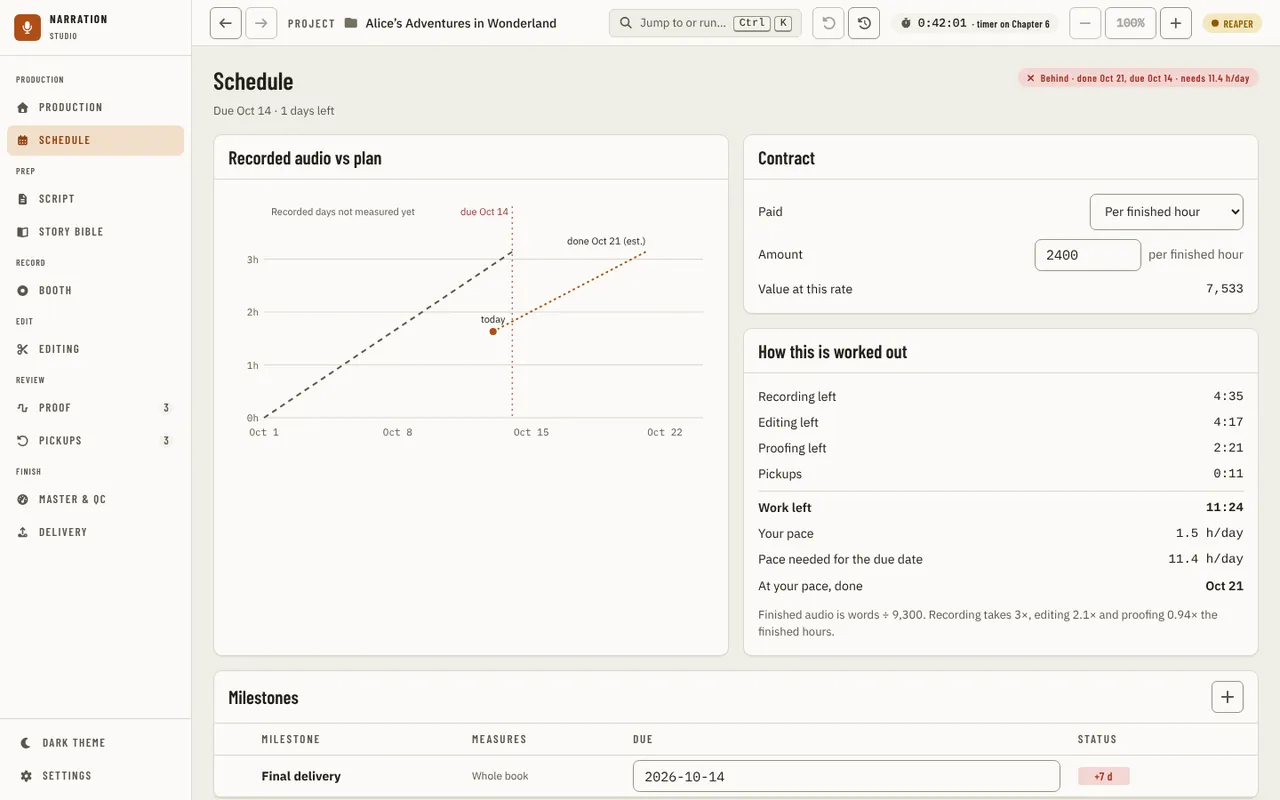
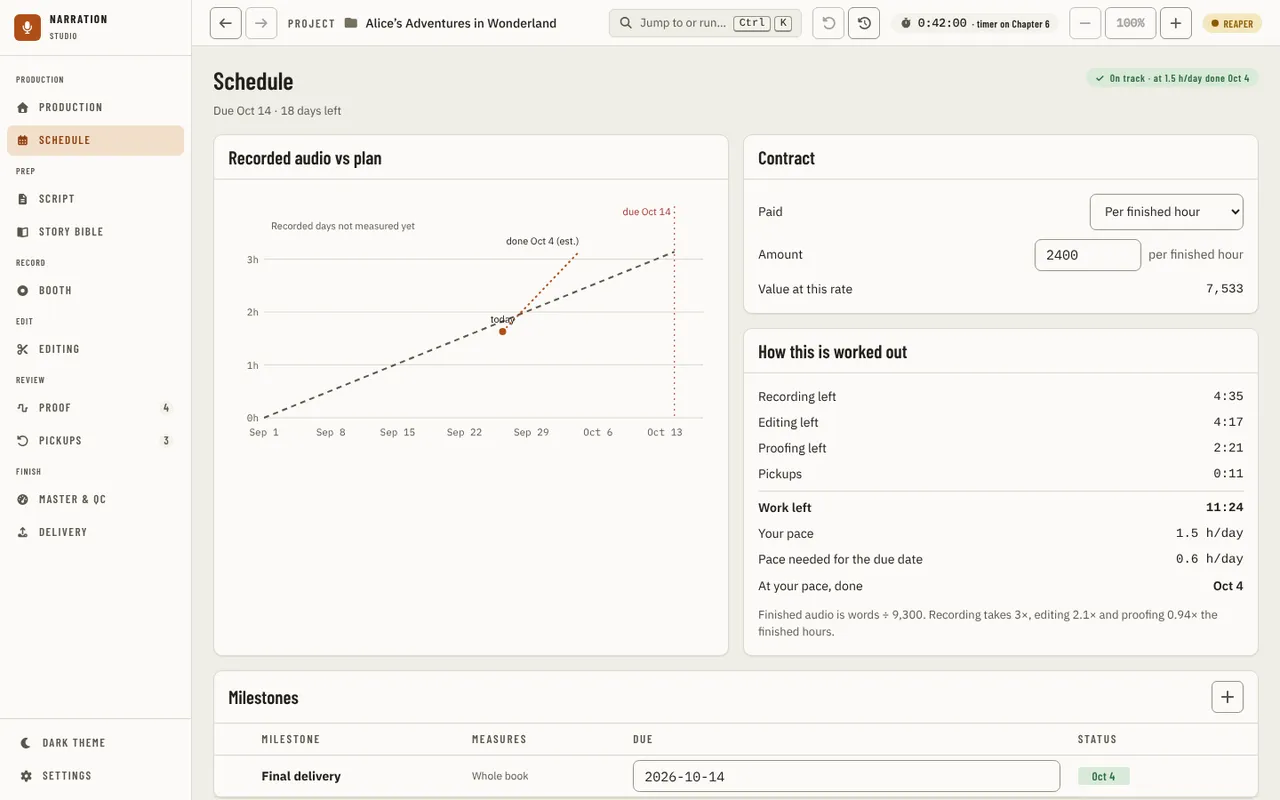
docs(schedule): add the Schedule guide, panel fill and the chart fill
Claude-Session: https://claude.ai/code/session_013jXFHzvEngQnznUKbBTgSS

diff --git a/apps/ui/src/components/production/overview/ProgressChart.tsx b/apps/ui/src/components/production/overview/ProgressChart.tsx
@@ -26,19 +26,26 @@ type Props = {
   series: Measured<Array<[number, number]>>;
   /** The fixed height in px; the chart draws to the width it is given. */
   height?: number;
+  /** Fill the card's height (the Schedule's chart stretches beside the Contract and the work left); `height` is then the least it takes. */
+  fill?: boolean;
   /** The panel's title: Production says "Recorded vs plan", the Schedule page "Recorded audio vs plan" (the mock). */
   title?: string;
 };
 
 /** "Recorded vs plan": the plan dashed, the recorded days solid, the projection dotted, with the due line, today and the estimated finish. */
-export function ProgressChart({ k, wph, start, today, due, recordedHours, series, height = 200, title = 'Recorded vs plan' }: Props) {
+export function ProgressChart({ k, wph, start, today, due, recordedHours, series, height: minHeight = 200, fill = false, title = 'Recorded vs plan' }: Props) {
   const box = useRef<HTMLDivElement>(null);
   const [width, setWidth] = useState(520);
+  const [boxHeight, setBoxHeight] = useState(minHeight);
+  const height = fill ? Math.max(minHeight, boxHeight) : minHeight;
   const describedBy = useId();
   useEffect(() => {
     const el = box.current;
     if (!el) return;
-    const measure = (): void => setWidth(Math.max(MIN_WIDTH, Math.round(el.clientWidth)));
+    const measure = (): void => {
+      setWidth(Math.max(MIN_WIDTH, Math.round(el.clientWidth)));
+      setBoxHeight(Math.round(el.clientHeight));
+    };
     measure();
     if (typeof ResizeObserver === 'undefined') return;
     const observer = new ResizeObserver(measure);
@@ -63,13 +70,14 @@ export function ProgressChart({ k, wph, start, today, due, recordedHours, series
   const summary = `Plan starts ${fmtD(start)}${due ? `, due ${fmtD(due)}` : ', no due date'}. Today is ${fmtD(today)}, ${recordedHours.toFixed(1)} of ${finishedHours.toFixed(1)} finished hours recorded. Estimated finish ${fmtD(k.finish)}.`;
 
   return (
-    <Panel title={title} className="min-w-0">
-      <div ref={box} className="w-full overflow-hidden" style={{ height }}>
+    <Panel title={title} className="min-w-0" fill={fill}>
+      {/* Filling, the svg is laid over the box so what it draws never sets the card's height: the cell does. */}
+      <div ref={box} className={fill ? 'relative size-full overflow-hidden' : 'w-full overflow-hidden'} style={fill ? { minHeight } : { height }}>
         <svg
           viewBox={`0 0 ${width} ${height}`}
           width={width}
           height={height}
-          className="block"
+          className={fill ? 'absolute inset-0 block' : 'block'}
           role="img"
           aria-label="Recorded audio versus plan"
           aria-describedby={describedBy}

diff --git a/apps/ui/src/components/primitives/Panel.tsx b/apps/ui/src/components/primitives/Panel.tsx
@@ -11,6 +11,8 @@ type PanelLook = {
   scroll?: boolean;
   // A panel asking for the narrator's attention: its frame takes the review colour.
   tone?: 'review';
+  // The card takes the height its cell gives it (a grid row stretched to a taller neighbour) and the body takes what the header leaves, so a chart can fill it.
+  fill?: boolean;
   // Layout only (width, flex, margin): the look is the panel's own.
   className?: string;
 };
@@ -27,9 +29,22 @@ type PanelProps = PanelLook &
 // A card around a group of content (ADR 0058, the look ADR 0640). With a `title` it is a named region: the title is a
 // level-2 heading (a panel sits beneath the page's level-1 heading) in a header row with a divider under it, and the
 // section is labelled by it, so a screen reader can list and jump to it. Without one it is the bare card.
-export function Panel({ title, titleStyle, subtitle, leading, actions, label, flush = false, scroll = false, tone, className = '', children }: PanelProps) {
+export function Panel({
+  title,
+  titleStyle,
+  subtitle,
+  leading,
+  actions,
+  label,
+  flush = false,
+  scroll = false,
+  fill = false,
+  tone,
+  className = '',
+  children,
+}: PanelProps) {
   const titleId = useId();
-  const layout = scroll ? 'flex flex-col overflow-hidden' : '';
+  const layout = scroll ? 'flex flex-col overflow-hidden' : fill ? 'flex flex-col' : '';
   return (
     <section
       aria-labelledby={title ? titleId : undefined}
@@ -39,7 +54,7 @@ export function Panel({ title, titleStyle, subtitle, leading, actions, label, fl
     >
       {title && <PanelHeader title={title} titleId={titleId} titleStyle={titleStyle} subtitle={subtitle} leading={leading} actions={actions} />}
       <div
-        className={`${flush ? '[--panel-pad:0px]' : PANEL_BODY_CLASS} ${scroll ? 'min-h-0 flex-1 overflow-y-auto' : ''}`}
+        className={`${flush ? '[--panel-pad:0px]' : PANEL_BODY_CLASS} ${scroll ? 'min-h-0 flex-1 overflow-y-auto' : fill ? 'min-h-0 flex-1' : ''}`}
         // A scrolling body is a tab stop, so the keyboard can scroll it when nothing inside it takes focus.
         {...(scroll ? { tabIndex: 0, role: 'group', 'aria-labelledby': title ? titleId : undefined, 'aria-label': title ? undefined : label } : {})}
       >

diff --git a/apps/ui/src/components/primitives/Panel.stories.tsx b/apps/ui/src/components/primitives/Panel.stories.tsx
@@ -366,6 +366,30 @@ export const ScrollingBody: Story = {
   },
 };
 
+// A card beside a taller one takes the row's height, and its body takes what the header leaves (the Schedule's chart beside the Contract).
+export const FillsItsCell: Story = {
+  render: () => (
+    <div className="grid items-stretch gap-4 md:grid-cols-2">
+      <Panel title="Recorded audio" fill>
+        <div className="h-full min-h-20 rounded border border-dashed border-[var(--border)]" data-testid="fill-body">
+          Fills the card
+        </div>
+      </Panel>
+      <Panel title="Contract">
+        <p className="h-48 text-sm">A taller neighbour sets the row.</p>
+      </Panel>
+    </div>
+  ),
+  play: async ({ canvasElement }) => {
+    const canvas = within(canvasElement);
+    if (!(await laidOut(canvasElement))) return;
+    const body = canvas.getByTestId('fill-body');
+    const [mine, theirs] = canvas.getAllByRole('region').map((el) => el.getBoundingClientRect());
+    // Stacked (narrow), nothing stretches the card; side by side, the body grows to the taller neighbour.
+    if (Math.abs(mine.top - theirs.top) < 1) await expect(body.getBoundingClientRect().height).toBeGreaterThan(150);
+  },
+};
+
 // A card that is not a section of its own (a TabPanel drawn as a card) takes the header row on its own, with the eyebrow
 // label and an inset card inside the body.
 export const HeaderOnItsOwn: Story = {

diff --git a/apps/ui/src/components/schedule/SchedulePage.tsx b/apps/ui/src/components/schedule/SchedulePage.tsx
@@ -209,6 +209,7 @@ export function SchedulePage({ journal, today, hasManuscript = true, onImport }:
         <ProgressChart
           title="Recorded audio vs plan"
           height={280}
+          fill
           k={k}
           wph={WPH}
           start={planStart(day)}

diff --git a/docs/research/schedule-page-state-matrix.md b/docs/research/schedule-page-state-matrix.md
@@ -2,7 +2,7 @@
 
 Written before the code, per [the definition of done](../../.claude/rules/definition-of-done.md) rule 3, for the Schedule page wired to the host through the `production`, `deliveryProfiles` and `measurements` ports (D67, mock-first). The mock's Schedule (`docs/research/mockups/studio-next/src/pages/Schedule.tsx`) is the spec for what the page shows; this file says what each control does in the states the mock never draws.
 
-A cell is `T:<test>` (a test drives it), `V:<reason>` (a reader can see why no test is needed), or `NT:<reason>` (not tested, with the reason). The "Status" column is filled in as the tests land; a cell still `plan` is unverified.
+A cell is `T:<test>` (a test drives it), `V:<reason>` (a reader can see why no test is needed), or `NT:<reason>` (not tested, with the reason). Test files are `apps/ui/src/components/schedule/SchedulePage.<name>.test.tsx` (`dates`, `contract`, `reread`, `races`, `text`, `scale`) and `apps/ui/tests/aria/schedule-overlays.spec.ts`.
 
 ## What the page reads and writes
 
@@ -22,10 +22,10 @@ The host never pushes an event for these; the page re-reads on its own (focus, t
 
 | State | Expected | Status |
 | --- | --- | --- |
-| loading | "Loading the schedule…" status | T:SchedulePage.test.tsx existing |
-| empty (no chapters / no manuscript) | the manuscript prompt, no table, no estimates | T:existing "asks for a manuscript first" |
+| loading | "Loading the schedule…" status | T:SchedulePage.test.tsx (existing) |
+| empty (no chapters / no manuscript) | the manuscript prompt, no table, no estimates | T:SchedulePage.test.tsx (existing) "asks for a manuscript first" |
 | one chapter / many / huge (5,000 chapters) | the estimates add up; the page renders without a freeze | T:SchedulePage.scale.test.tsx |
-| refused / failed first read | alert with the reason and Try again | T:existing |
+| refused / failed first read | alert with the reason and Try again | T:SchedulePage.test.tsx (existing) |
 | failed re-read after a good read | the last reading stays, a notice says it could not refresh, why, and how long ago it was read; Check again | T:SchedulePage.reread.test.tsx |
 | stale (nothing re-read for a long time) | same notice reads "last read N min ago" | T:reread |
 | re-read succeeds after a failure | the notice goes away | T:reread |
@@ -42,9 +42,9 @@ The host never pushes an event for these; the page re-reads on its own (focus, t
 
 | State | Expected | Status |
 | --- | --- | --- |
-| none set | "No due date set"; pill "No due date set"; field empty | T:existing |
+| none set | "No due date set"; pill "No due date set"; field empty | T:SchedulePage.test.tsx (existing) |
 | clear it (empty field, Enter) | the host clears it; header and pill read "No due date set"; Undo restores | T:dates |
-| in the future | "Due Oct 24 · 8 days left" | T:existing |
+| in the future | "Due Oct 24 · 8 days left" | T:SchedulePage.test.tsx (existing) |
 | one day left | "1 day left", not "1 days left" | T:dates |
 | due today | "Due today", the pill never says "needs Infinity" | T:dates |
 | in the past (1 day, many days) | "2 days overdue"; the pill says Behind with how late and when it would finish, never "needs Infinity h/day" | T:dates |
@@ -52,7 +52,7 @@ The host never pushes an event for these; the page re-reads on its own (focus, t
 | impossible date (`2026-02-30`) | refused with "not a real date", nothing sent to the host | T:dates |
 | wrong shape (`10/14/2026`, `tomorrow`, emoji, RTL text) | refused with "write it YYYY-MM-DD", nothing sent | T:dates |
 | negative / zero year (`-001-01-01`, `0000-01-01`) | refused, nothing sent | T:dates |
-| leap day (`2028-02-29`) and a day over a DST change | counts whole calendar days (22/23/25-hour days do not shift it) | T:dates, T:existing progress |
+| leap day (`2028-02-29`) and a day over a DST change | counts whole calendar days (22/23/25-hour days do not shift it) | T:dates, T:SchedulePage.test.tsx (existing) progress |
 | host refuses | the host's sentence in a toast; the field goes back to the stored date | T:dates |
 | rapid double-fire (Enter then blur) | one host write | T:dates |
 | a re-read changes the date while the field is being edited | the typed text is kept until commit | T:reread |
@@ -61,8 +61,8 @@ The host never pushes an event for these; the page re-reads on its own (focus, t
 
 | State | Expected | Status |
 | --- | --- | --- |
-| each payment type | amount field only under per finished hour; value only with a rate | T:existing |
-| empty amount | clears it | T:existing |
+| each payment type | amount field only under per finished hour; value only with a rate | T:SchedulePage.test.tsx (existing) |
+| empty amount | clears it | T:SchedulePage.test.tsx (existing) |
 | 0 / one / huge (`1e21`, `99999999999`) | stored as typed; the value reads with separators; no "Infinity" or exponent text | T:SchedulePage.contract.test.tsx |
 | negative, NaN, text, `Infinity`, `0x10`, `1,5` | refused with a sentence (not silently ignored); field goes back to the stored amount; nothing sent | T:contract |
 | RTL digits (`٢٤٠٠`) / emoji | refused with the same sentence | T:contract |
@@ -74,32 +74,32 @@ The host never pushes an event for these; the page re-reads on its own (focus, t
 
 | State | Expected | Status |
 | --- | --- | --- |
-| none | only the Final delivery row | T:existing |
-| one / many | sorted by date, ties by stored order | T:existing |
+| none | only the Final delivery row | T:SchedulePage.test.tsx (existing) |
+| one / many | sorted by date, ties by stored order | T:SchedulePage.test.tsx (existing) |
 | 100 (the host's limit) then Add | the host's refusal ("at most 100 milestones") shown in the dialog; list unchanged | T:SchedulePage.scale.test.tsx |
-| 2,000 read from a hand-edited manifest | the table renders in time and stays usable | T:scale |
+| 500 read from a hand-edited manifest (the host saves at most 100) | the table renders in time and stays usable | T:scale. Thousands: NT:jsdom takes about 10 s for 2,000 rows and the host cannot save that many; a browser run of it is unverified |
 | long name (200 chars, no spaces) | wraps or clips inside its cell; the table does not scroll sideways | T:SchedulePage.text.test.tsx, visual row `long-text` |
 | RTL and emoji name / note | shown as written, `dir="auto"` so an RTL name reads right to left | T:text |
-| name with only spaces | refused in the dialog | T:existing |
+| name with only spaces | refused in the dialog | T:SchedulePage.test.tsx (existing) |
 | done toggle double-fire | two writes in order, final state is the second | T:SchedulePage.races.test.tsx |
-| remove then Undo | the entry is back in place | T:existing |
+| remove then Undo | the entry is back in place | T:SchedulePage.test.tsx (existing) |
 | remove of a row another re-read already changed | refused with a sentence, nothing removed | T:races |
 | edit saved against a list that changed since the dialog opened | refused with a sentence | T:reread |
-| host refuses a save (bad measure, too long) | host's sentence, in the dialog and a toast | T:existing |
+| host refuses a save (bad measure, too long) | host's sentence, in the dialog and a toast | T:SchedulePage.test.tsx (existing) |
 | host never answers | the Save button stays busy; Cancel and Escape still close the dialog and leave the table as it was | T:races |
 | host answers late, out of order | an older answer never replaces a newer one | T:races |
 | undo after a re-read changed the list | undo applies the journal's own check and says so if it cannot | NT:the journal refuses an out-of-order undo; covered by `studio/journal` tests |
 
 ## Overlays on this page
 
-The milestone dialog, the status and note tooltips, the Paid select's list and the toasts are each opened and checked with `elementFromPoint` (see `apps/ui/tests/visual/helpers/overlayGuard.ts`, or the guard from PR #1756 once it is on `main`):
+The milestone dialog, the status tooltip and the Undo toast are each opened and checked with `elementFromPoint` (`apps/ui/tests/aria/overlayGuard.ts`, one helper so the guard from PR #1756 can replace it once it is on `main`):
 
 | Overlay | Positions | Status |
 | --- | --- | --- |
-| Add / Edit milestone dialog | each window edge and corner, narrow width, over a scrolled page, while a toast is up, with the Paid select list open | T:scheduleOverlays.spec.ts |
-| Status cell and note tooltips | the first and the last row, the viewport's right edge, over scrolled content | T:scheduleOverlays.spec.ts |
-| Paid select list | right edge, bottom edge, narrow | T:scheduleOverlays.spec.ts |
-| Undo toast | over the table at narrow width | T:scheduleOverlays.spec.ts |
+| Add / Edit milestone dialog | each window edge and corner, narrow width, over a scrolled page, while a toast is up, with the Paid select list open | T:tests/aria/schedule-overlays.spec.ts |
+| Status cell and note tooltips | the first and the last row, the viewport's right edge, over scrolled content | T:tests/aria/schedule-overlays.spec.ts |
+| Paid select list | right edge, bottom edge, narrow | NT:it is the browser's own select popup, which the page does not draw and the guard cannot read |
+| Undo toast | over the table at narrow width | T:tests/aria/schedule-overlays.spec.ts |
 
 ## Paths
 
@@ -109,8 +109,8 @@ The page resolves no file path: the plan lives in the project manifest the host 
 
 | Case | Expected | Status |
 | --- | --- | --- |
-| the host never answers a read | "Loading the schedule…" stays, with Try again after a wait? | NT:the existing loading line has no timeout; a read that never answers is the host's to time out. Listed unverified. |
+| the host never answers a read | "Loading the schedule…" stays; a write that waits behind a silent one goes ahead after 15 s | T:races "lets a later write go ahead". NT:a first read that never answers has no timeout or Try again; listed unverified |
 | answers late | the page waits; a late first read still renders | T:reread |
 | out of order | see "older read never overwrites" | T:reread |
 | repeated event / lost event | the page uses no event; a lost one cannot hide a change because it re-reads on focus and timer | V:no live event feeds the page |
-| wrong version | the Zod schema in `api/schemas` rejects a changed shape and the page shows the read error | T:existing schema tests |
+| wrong version | the Zod schema in `api/schemas` rejects a changed shape and the page shows the read error | T:SchedulePage.test.tsx (existing) schema tests |

diff --git a/docs/design/design-system.md b/docs/design/design-system.md
@@ -59,7 +59,7 @@ Location: `apps/ui/src/components/primitives/`.
 | `MeterBar` | ~~Segmented horizontal meter~~ Removed: its one consumer is gone ([ADR 0619](../adr/0619-meterbar-is-removed-its-one-consumer-is-gone.md), superseding the MeterBar clause of [ADR 0050](../adr/0050-the-segmented-meter-is-an-image-named-by-its-segments-and-field-wires-its-hint-and-error.md)) |
 | `ProgressBar` | One job's progress: a bar with a value, or sliding when nothing is measured yet | Base UI `Progress` (`aria-valuenow` only when determinate). Required `label`; `valueText` is what a screen reader hears instead of the number (the bytes of a download), so the numbers stay out of live regions; `running` keeps the fill at least 4% wide; the fill eases and slides only under `motion-safe:`. `size="thin"` (8 px, fully rounded, `--ok` on `--surface-2`) is the mocks' figure under a `StatTile` ([ADR 0617](../adr/0617-progressbar-gains-a-thin-toned-variant-for-the-benchmarks-under-tile-and-weekly-bars.md)). `WorkDialog` and the Local assets rows draw it ([ADR 0015](../adr/0015-real-progress-only.md)) |
 | `Heading` | The page title, with an optional muted line under it | `level` of 1, 2 or 3 (default 1) changes the tag only, the look is the same; Barlow Condensed at `--font-size-page-title` (28 px), a 13 px muted subtitle that wraps anywhere, so a file name cannot push the page sideways; `icon` leads the title ([ADR 0058](../adr/0058-heading-has-a-level-and-panel-names-its-region-with-a-level-2-title.md), [ADR 0640](../adr/0640-panel-draws-the-mocks-card-header-with-a-divider-and-a-padded-or-flush-body-and-the-eyebrow-and-inset-card-are-primitives.md)) |
-| `Panel` (with `PanelHeader`) | Card around a group of content | With a `title` it is a named region: the title is a level-2 heading and labels the section. The header row is 50 px with a divider under it: a Barlow 21 px title (`--font-size-card-title`) (`titleStyle="caps"`: the Settings category's 17 px uppercase title), an inline 13 px muted `subtitle`, a `leading` mark before the title and `actions` at the right (all only with a title). Without one it is the bare card, which `label` can name. The body is padded 16 px (`--panel-pad`); `flush` drops that for a table, and `scroll` scrolls the body under the header. `tone="review"` colours the frame, and `className` is for layout. `PanelHeader` with `PANEL_FRAME_CLASS` draws the same card on an element that is not a section (a `TabPanel`) ([ADR 0058](../adr/0058-heading-has-a-level-and-panel-names-its-region-with-a-level-2-title.md), [ADR 0640](../adr/0640-panel-draws-the-mocks-card-header-with-a-divider-and-a-padded-or-flush-body-and-the-eyebrow-and-inset-card-are-primitives.md)) |
+| `Panel` (with `PanelHeader`) | Card around a group of content | With a `title` it is a named region: the title is a level-2 heading and labels the section. The header row is 50 px with a divider under it: a Barlow 21 px title (`--font-size-card-title`) (`titleStyle="caps"`: the Settings category's 17 px uppercase title), an inline 13 px muted `subtitle`, a `leading` mark before the title and `actions` at the right (all only with a title). Without one it is the bare card, which `label` can name. The body is padded 16 px (`--panel-pad`); `flush` drops that for a table, `scroll` scrolls the body under the header, and `fill` makes the card take the height its grid cell gives it, with the body taking what the header leaves (the Schedule's chart beside the Contract). `tone="review"` colours the frame, and `className` is for layout. `PanelHeader` with `PANEL_FRAME_CLASS` draws the same card on an element that is not a section (a `TabPanel`) ([ADR 0058](../adr/0058-heading-has-a-level-and-panel-names-its-region-with-a-level-2-title.md), [ADR 0640](../adr/0640-panel-draws-the-mocks-card-header-with-a-divider-and-a-padded-or-flush-body-and-the-eyebrow-and-inset-card-are-primitives.md)) |
 | `SectionLabel` | The eyebrow over a section, a KPI tile or a nav group | Barlow Condensed 13 px (`--font-size-label`), semibold, uppercase, `--tracking-label`, muted; `as` picks the element (`span` by default, a heading when it names a region, a `legend` over a fieldset); the global `.section-label` draws the same for the files later phases migrate ([ADR 0640](../adr/0640-panel-draws-the-mocks-card-header-with-a-divider-and-a-padded-or-flush-body-and-the-eyebrow-and-inset-card-are-primitives.md)) |
 | `InsetCard` | A card inside a card | 1 px border, 6 px radius, 12 px inside, on `--surface`; `tone` (`accent`, `warn`, `danger`) colours the frame, `fill` sets it on `--surface-2`, `dashed` marks a placeholder; `as` a `div`, `section`, `li` or `p` ([ADR 0640](../adr/0640-panel-draws-the-mocks-card-header-with-a-divider-and-a-padded-or-flush-body-and-the-eyebrow-and-inset-card-are-primitives.md)) |
 | `Field` | Labelled text control (input or textarea) on Base UI Field | Optional `placeholder`, `autoFocus`, `hint` and `error`: the library wires the label, the hint and the error to the control and sets `aria-invalid` ([ADR 0050](../adr/0050-the-segmented-meter-is-an-image-named-by-its-segments-and-field-wires-its-hint-and-error.md)) |

diff --git a/docs/guides/using-the-app/schedule.md b/docs/guides/using-the-app/schedule.md
@@ -1,0 +1,71 @@
+[Using the app](README.md) › Schedule
+
+# Schedule
+
+Schedule answers one question: will the book be done by its due date. It holds the due date, how the book pays, the
+recorded audio against the plan, the work left and how it is worked out, and the book's milestones. It sits after
+[Production](production.md) in the navigation. With no manuscript it asks you to import one first. Every change is one
+step you can undo from the toast that follows it or from the undo history.
+
+![Schedule - the verdict, the recorded audio against the plan, how the book pays, the work left and the milestones](../../images/ui/schedule-on-pace.webp)
+
+## The verdict
+
+The pill at the top right says **On track**, **Tight** or **Behind**, with when the work would finish at your pace and, when you
+are behind, the daily pace the due date needs. The days left to the due date set it: with three days to spare or more it is
+on track, with less than three it is tight, and once the work needs more days than are left it is behind. A book whose chapters
+are all delivered reads **Finished**, whatever the date.
+
+The line under the title reads the days plainly: **8 days left**, **1 day left**, **Due today**, **2 days overdue**. Once the due
+date is today or past, no daily pace can reach it, so the pill says how late instead of a pace.
+
+![Schedule - a due date that has passed: how many days overdue, Behind, and when the work would finish at your pace](../../images/ui/schedule-overdue.webp)
+
+## How it is worked out
+
+**How this is worked out** lists the recording, editing and proofing left, the pickups still open, and their sum, **Work left**.
+The numbers behind it are fixed, not measured from your sessions: finished audio is words ÷ 9,300 per hour, recording takes 3×
+the finished hours, editing 2.1× and proofing 0.94×, a pickup takes about 4 minutes, and your pace is 1.5 hours a day. **At your
+pace, done** is today plus the work left divided by that pace.
+
+The chart, **Recorded audio vs plan**, draws the plan as a dashed line to the due date, the recorded days as a solid line when
+the app can read them (otherwise it says why it cannot), today, and the estimated finish as a dotted line.
+
+## Contract
+
+**Paid** is how the book pays: per finished hour, a royalty share, or none or unspecified. Only a rate per finished hour carries
+an amount. Type it in the **Amount** box and press Enter or leave the box; **Value at this rate** is the rate times the book's finished
+hours. An empty box clears the amount. An amount is digits with an optional decimal part, and thousands commas only in groups
+of three (`1,250.50`). Anything else, such as `-5`, `1e3` or `1,5` (which could mean 15), is refused with a message and the
+box goes back to the stored amount. Choosing a royalty share or none clears the amount.
+
+## Milestones
+
+The table lists your milestones by date, with the **Final delivery** row, the book's due date, at the end. Each row has:
+
+- a **done** toggle. A done milestone reads **Done** and is never estimated.
+- a name, what it **measures** (a custom milestone measures nothing), and its date.
+- a status cell: **Late by 3 d**, **At risk** or **On track** with the estimated date, or **Not estimated** for a custom one.
+  Hover or focus it for the full sentence.
+- a note button (hover it to read the note; with no note it offers to add one), **Edit** and **Remove**. Removing offers Undo.
+
+![Schedule - the Add milestone dialog: name, due date, what it measures, a note and Done](../../images/ui/schedule-milestone-dialog.webp)
+
+**Add milestone**, at the top of the table, opens a dialog for the name, due date (written `YYYY-MM-DD`), what it measures, a note
+and Done. The 15-minute checkpoint is offered only when the project's delivery profile asks for it. A book can have at most 100
+milestones, a name is at most 200 characters and a note 2,000; when a save is refused the dialog says why and nothing changes.
+
+## The due date
+
+Type the date in the **Final delivery** row as `YYYY-MM-DD` and press Enter or leave the box. It must be a real date in the years
+1000 to 9999: `2026-02-30` and `10/14/2026` are refused with a message. Emptying the box clears the due date, and the page says **No
+due date set**. A due date in the plan that is not a real date (the file was edited by hand) is named in the header and treated as no
+due date.
+
+## Staying current
+
+The page reads again when you switch back to the app (at most every 30 seconds) and every minute while it is open, so a change
+made elsewhere, and the day turning over at midnight, show up without a reload. If a later read fails, the page keeps what it
+had and says so: **Couldn't read the schedule again**, why, how long ago it was read, and **Check again**. Every change
+starts from what the project holds at that moment: a change to a row that was edited somewhere else since you saw it is refused with a
+message instead of overwriting it, and two quick presses on the same row are one change.

diff --git a/docs/guides/using-the-app/production.md b/docs/guides/using-the-app/production.md
@@ -6,7 +6,7 @@ Production is the page a project opens on, the first item in the navigation. It 
 pace?" for the book you have open: how much finished audio there is and how much recording,
 editing and proofing is left, the open pickups, the due date and whether the pace reaches it, and
 what to work on next. Its **Chapter pipeline** has one row per chapter and one column per stage.
-The book's dates, payment and milestones are on [Schedule](#schedule), the item after Production in
+The book's dates, payment and milestones are on [Schedule](schedule.md), the item after Production in
 the navigation.
 
 ![Production - the figures, the chapter pipeline and Next up, with a stage timer running in the header](../../images/ui/production-home.webp)
@@ -14,13 +14,13 @@ the navigation.
 The header names the book's chapters, words and due date ("12 chapters · 29,189 words · delivery
 due 14 Oct (18 days)"), with the due date's tone as a word and a mark, not only a colour. The pill
 under it is the verdict for the due date (on track, tight or behind); it opens
-[Schedule](#schedule). **Export status report** (the export icon) opens the
+[Schedule](schedule.md). **Export status report** (the export icon) opens the
 [status report](#status-report), and **Start session** opens the [Booth](booth.md) on the chapter
 being recorded, or says why it cannot when the audio engine cannot record.
 
 With no manuscript imported yet, the page is the import: **Import manuscript** opens the file
 picker (see [Importing the manuscript](#importing-the-manuscript)), and the calendar icon opens
-[Schedule](#schedule) to set a due date first. To replace a manuscript later, use
+[Schedule](schedule.md) to set a due date first. To replace a manuscript later, use
 [Settings](settings.md).
 
 When the audio engine is not running, a line at the top says progress that comes from it may be
@@ -41,7 +41,7 @@ The six figures are one card; each opens the page it counts.
   the same lines, so the cells add up to the tile.
 - **Delivery check**: chapters that pass, fail or are not checked yet. It reads "Not measured
   yet" until the host reports a check per chapter.
-- **Due**: the due date and what the pace says about it. It opens [Schedule](#schedule).
+- **Due**: the due date and what the pace says about it. It opens [Schedule](schedule.md).
 
 Under the figures, **Where the book stands** splits the book's finished hours by stage, **This
 week** says how much was recorded this week and in the last 24 hours (from the built-in recorder's
@@ -220,11 +220,7 @@ the reason and **Try again** above the table.
 
 ## Schedule
 
-**Schedule**, the item after Production in the navigation, holds the book's due date, how it pays,
-the recorded audio against the plan, the work left and how it is worked out, and its milestones. With no manuscript it asks you to import
-one first. Every change there is one step you can undo.
-
-![Schedule - the verdict, the recorded audio against the plan, how the book pays, the work left and the milestones](../../images/ui/schedule-on-pace.webp)
+**Schedule**, the item after Production in the navigation, holds the book's due date, how it pays, the recorded audio against the plan, the work left and its milestones: see [Schedule](schedule.md).
 
 ## Status report
 

diff --git a/docs/guides/using-the-app/README.md b/docs/guides/using-the-app/README.md
@@ -13,7 +13,7 @@ Read them in order the first time, or jump straight to the page you need.
 | [Getting started](getting-started.md) | The project picker shown before a project is open. |
 | [Navigation](navigation.md) | The sidebar, its icon-only and drawer layouts, and locked entries; the header's engine chip and the audio engine panel it opens: the linked REAPER project, its tracks and chapter links, chapter sync, and the REAPER tools (chapter stamps, chapter render setup, chapter tags, cleanup tools, retakes on lanes). |
 | [Production](production.md) | The page a project opens on: importing the manuscript, hours logged by stage, PFH and effective rate from measured audio, the delivery date, which chapters to work on next, and the chapter pipeline whose cells open each chapter's track, recording check, stage suggestion and editing check. |
-| [Schedule](production.md#schedule) | The book's dates, payment and milestones, documented with Production. |
+| [Schedule](schedule.md) | Will the book be done by its due date: the verdict, the recorded audio against the plan, how the book pays, the work left and how it is worked out, and the milestones. |
 | [Script](script.md) | Prep: the chapter list with each chapter's prep state, the continuous reader with your marks, speakers and bookmarks, and the rail of words, Story Bible entries, notes, queries and bookmarks. |
 | [Story Bible](story-bible.md) | Characters, places, and organizations with how you say each name, notes, and the suggestions a scan or an import offers. |
 | [Booth](booth.md) | Where you record: a live read-along that follows you as you narrate a chapter, with companion mode beside your DAW. |

diff --git a/docs/guides/using-the-app/navigation.md b/docs/guides/using-the-app/navigation.md
@@ -2,7 +2,7 @@
 
 # Navigation
 
-The sidebar on the left is grouped by production stage, the way a narrator's week runs: **Production** ([Production](production.md), [Schedule](production.md#schedule)),
+The sidebar on the left is grouped by production stage, the way a narrator's week runs: **Production** ([Production](production.md), [Schedule](schedule.md)),
 **Prep** ([Script](script.md), [Story Bible](story-bible.md)), **Record** ([Booth](booth.md)), **Edit** ([Editing](editing.md)),
 **Review** ([Proof](proof.md), [Pickups](pickups.md)) and **Finish** ([Master & QC](master-and-qc.md), [Delivery](master-and-qc.md#delivery)).
 From 1360 px wide each group shows as a heading over its pages. Below that the rail shrinks to icons, grouped by a thin line,
